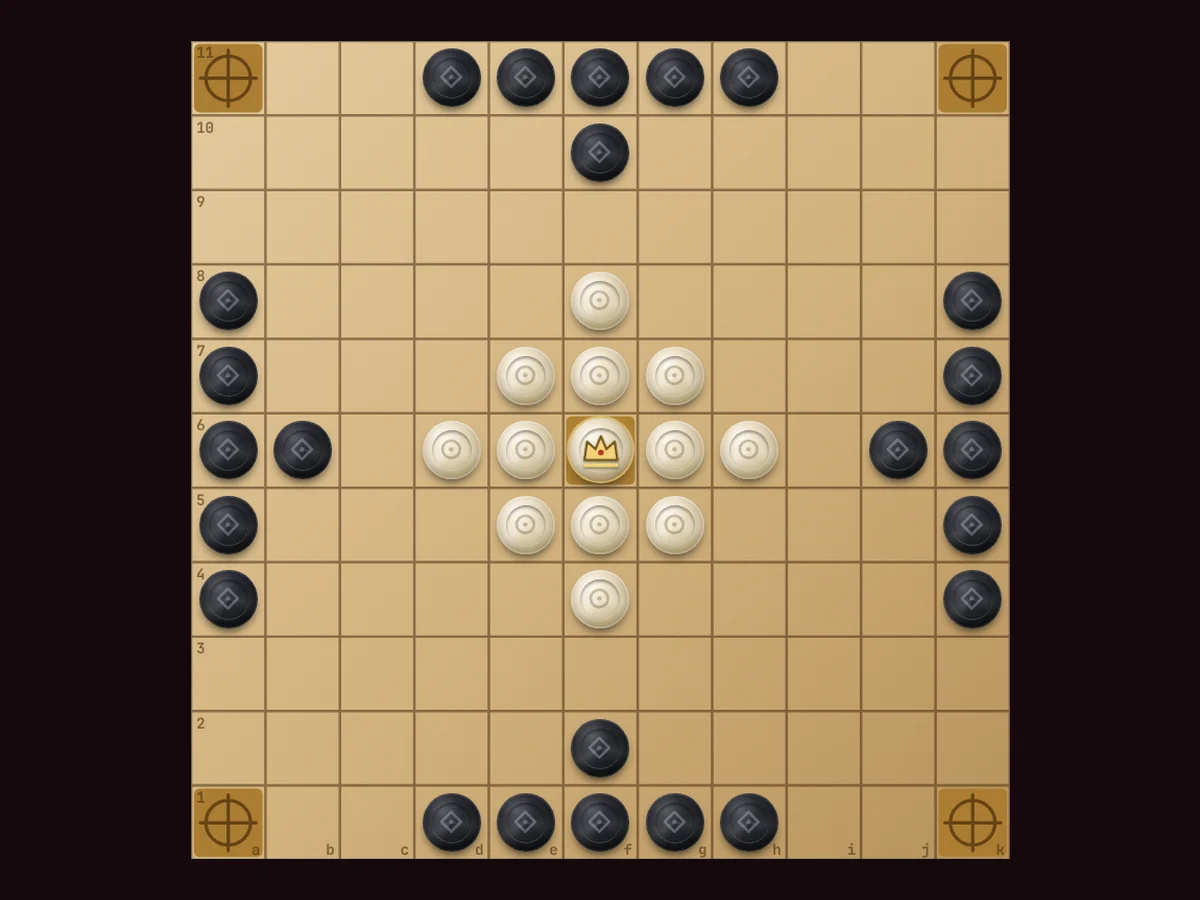
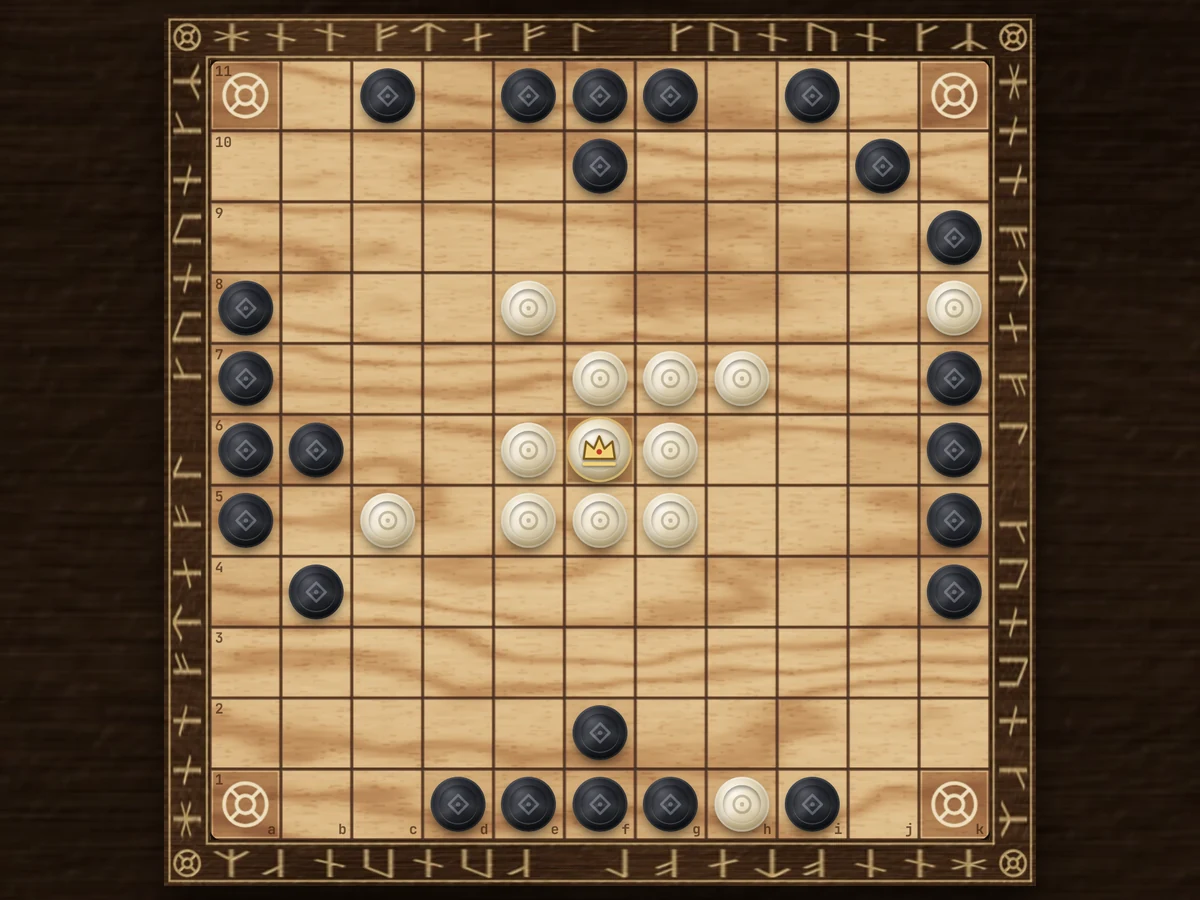
タフル: トップのサムネイルを彫刻オーク（3D版）盤の対局途中に更新
Claude-Session: https://claude.ai/code/session_01EiWRAXRDR9Cr8hPCoM1dCx

diff --git a/index.html b/index.html
@@ -801,7 +801,7 @@ const GAMES = [
   { id:'shogi',      href:'./shogi/',         thumb:'images/shogi.webp?v=2',       icon:'images/icons/shogi.svg?v=2',       cat:'chess',      kind:'BOARD GAME', key:'sh',   isNew:true,  tags:['classic','ai','online','rated','daily','lessons','puzzles','openings','mobile'], facts:{ ai:19, lessons:15, puzzles:613, players:'1–2' } },
   { id:'chess',      href:'./chess/',          thumb:'images/chess.webp',       icon:'images/icons/chess.svg',       cat:'chess',      kind:'BOARD GAME', key:'cs',   isNew:true,  tags:['classic','ai','online','rated','daily','lessons','puzzles','openings','mobile'], facts:{ ai:20, lessons:20, puzzles:445, players:'1–2' } },
   { id:'xiangqi',    href:'./xiangqi/',       thumb:'images/xiangqi.webp',     icon:'images/icons/xiangqi.svg',     cat:'chess',     kind:'BOARD GAME', key:'xq',   isNew:true,  tags:['classic','ai','online','rated','daily','lessons','puzzles','openings','mobile'], facts:{ ai:20, lessons:16, puzzles:543, players:'1–2' } },
-  { id:'tafl',       href:'./tafl/',          thumb:'images/tafl.webp',        icon:'images/icons/tafl.svg',        cat:'chess',     kind:'BOARD GAME', key:'tf',   isNew:true,  tags:['classic','ai','online','rated','daily','lessons','puzzles','openings','variants','mobile'], facts:{ ai:20, lessons:16, puzzles:390, players:'1–2' } },
+  { id:'tafl',       href:'./tafl/',          thumb:'images/tafl.webp?v=2',      icon:'images/icons/tafl.svg',        cat:'chess',     kind:'BOARD GAME', key:'tf',   isNew:true,  tags:['classic','ai','online','rated','daily','lessons','puzzles','openings','variants','mobile'], facts:{ ai:20, lessons:16, puzzles:390, players:'1–2' } },
   { id:'checkers',   href:'./checkers/',       thumb:'images/checkers.webp?v=3',    icon:'images/icons/checkers.svg',    cat:'chess',     kind:'BOARD GAME', key:'ck',   isNew:true,  tags:['classic','ai','online','rated','daily','lessons','puzzles','openings','mobile'], facts:{ ai:20, lessons:13, puzzles:500, players:'1–2' } },
   { id:'ugolki',     href:'./ugolki/',        thumb:'images/ugolki.webp?v=2',      icon:'images/icons/ugolki.svg?v=3',      cat:'chess',     kind:'BOARD GAME', key:'ug',   isNew:true,  tags:['classic','ai','online','rated','daily','lessons','puzzles','openings','variants','mobile'], facts:{ ai:20, lessons:11, puzzles:144, players:'1–2' } },
   { id:'fanorona',   href:'./fanorona/',      thumb:'images/fanorona.webp?v=3',    icon:'images/icons/fanorona.svg?v=2',    cat:'chess',     kind:'BOARD GAME', key:'fn',   isNew:true,  tags:['classic','ai','online','rated','daily','lessons','puzzles','openings','variants','mobile'], facts:{ ai:20, lessons:12, puzzles:200, players:'1–2' } },
